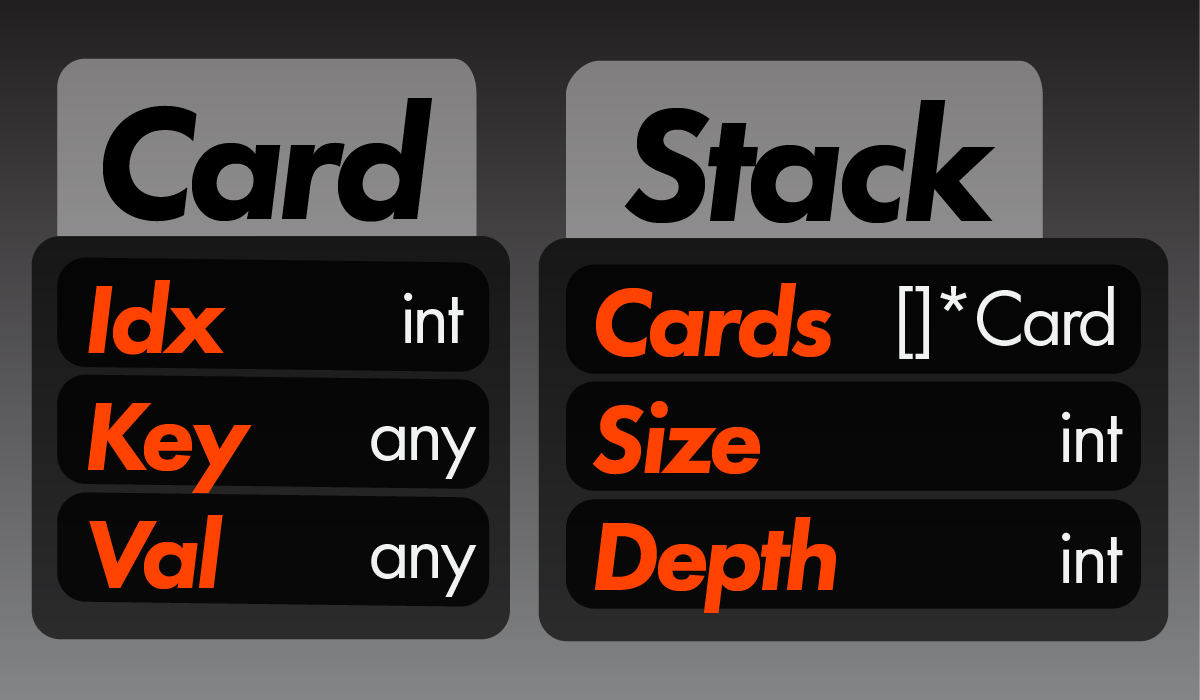
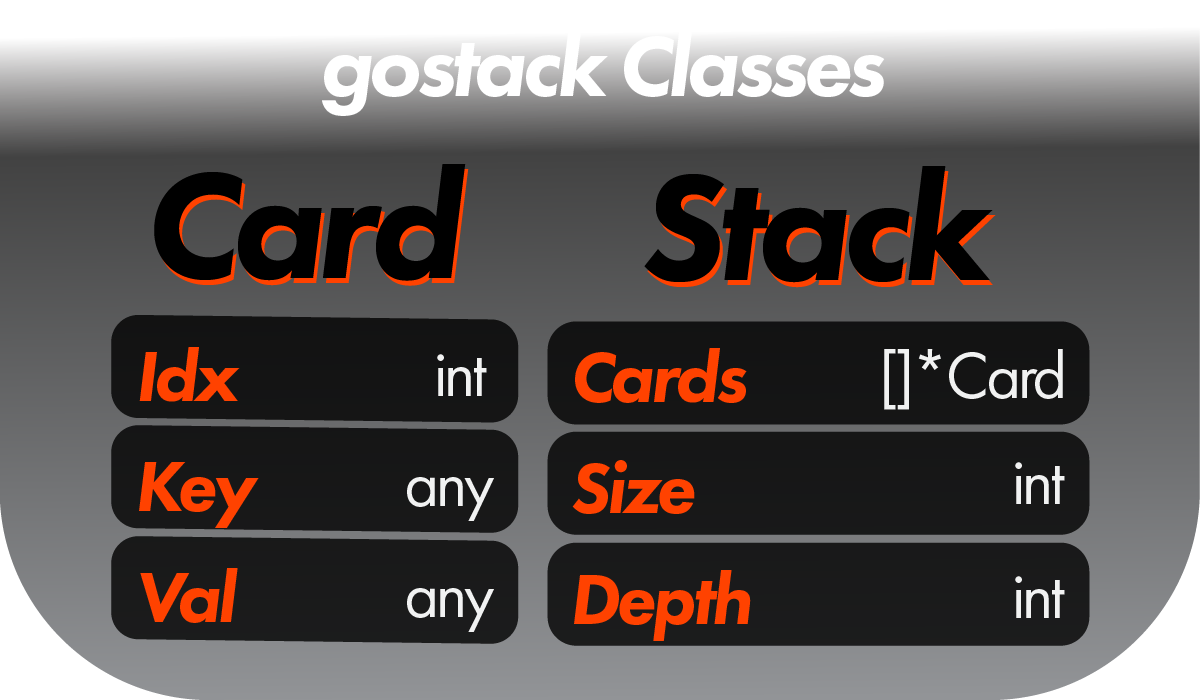
Updated format

diff --git a/README.md b/README.md
@@ -8,9 +8,11 @@
 
  Introducing **Stacks**—sets of **Card** elements (like a stack of cards)—***gostack*** serves as an all-in-one library for flexible, parsimonious, and elegant scripting in ***Go***.
 
- ***Go***, despite its elegance, is often excruciating.  We often find ourselves writing tedious code to complete seemingly simple tasks, adding an extra layer of complexity that distracts from the goal.  ***gostack*** solves this issue by creating a novel framework for data management, abstracting away this layer of complexity so that you can focus on what matters.
+ ***Go***, despite its elegance, is often excruciating.  We often find ourselves writing tedious code to complete seemingly simple tasks, adding an extra layer of complexity that distracts from the actual goal.  ***gostack*** solves this issue by creating a novel framework for data management, abstracting away this layer of complexity with English-like code so that you can focus more on what matters.
 
+ With arrays, array matrices, maps, map matrices, and interfaces to generalize your code, we felt that this system could use a redesign:
 
+<img src="images/gostack_StackAndCard.png" width="50%" style="margin-top: 20px;margin-left: 25%;"/>
 
  ***gostack***'s stacks...
  * ...replace arrays and maps, and matrices, eliminating the need for translating data between varying data types while supporting smooth conversion between stacks and your existing data structures
